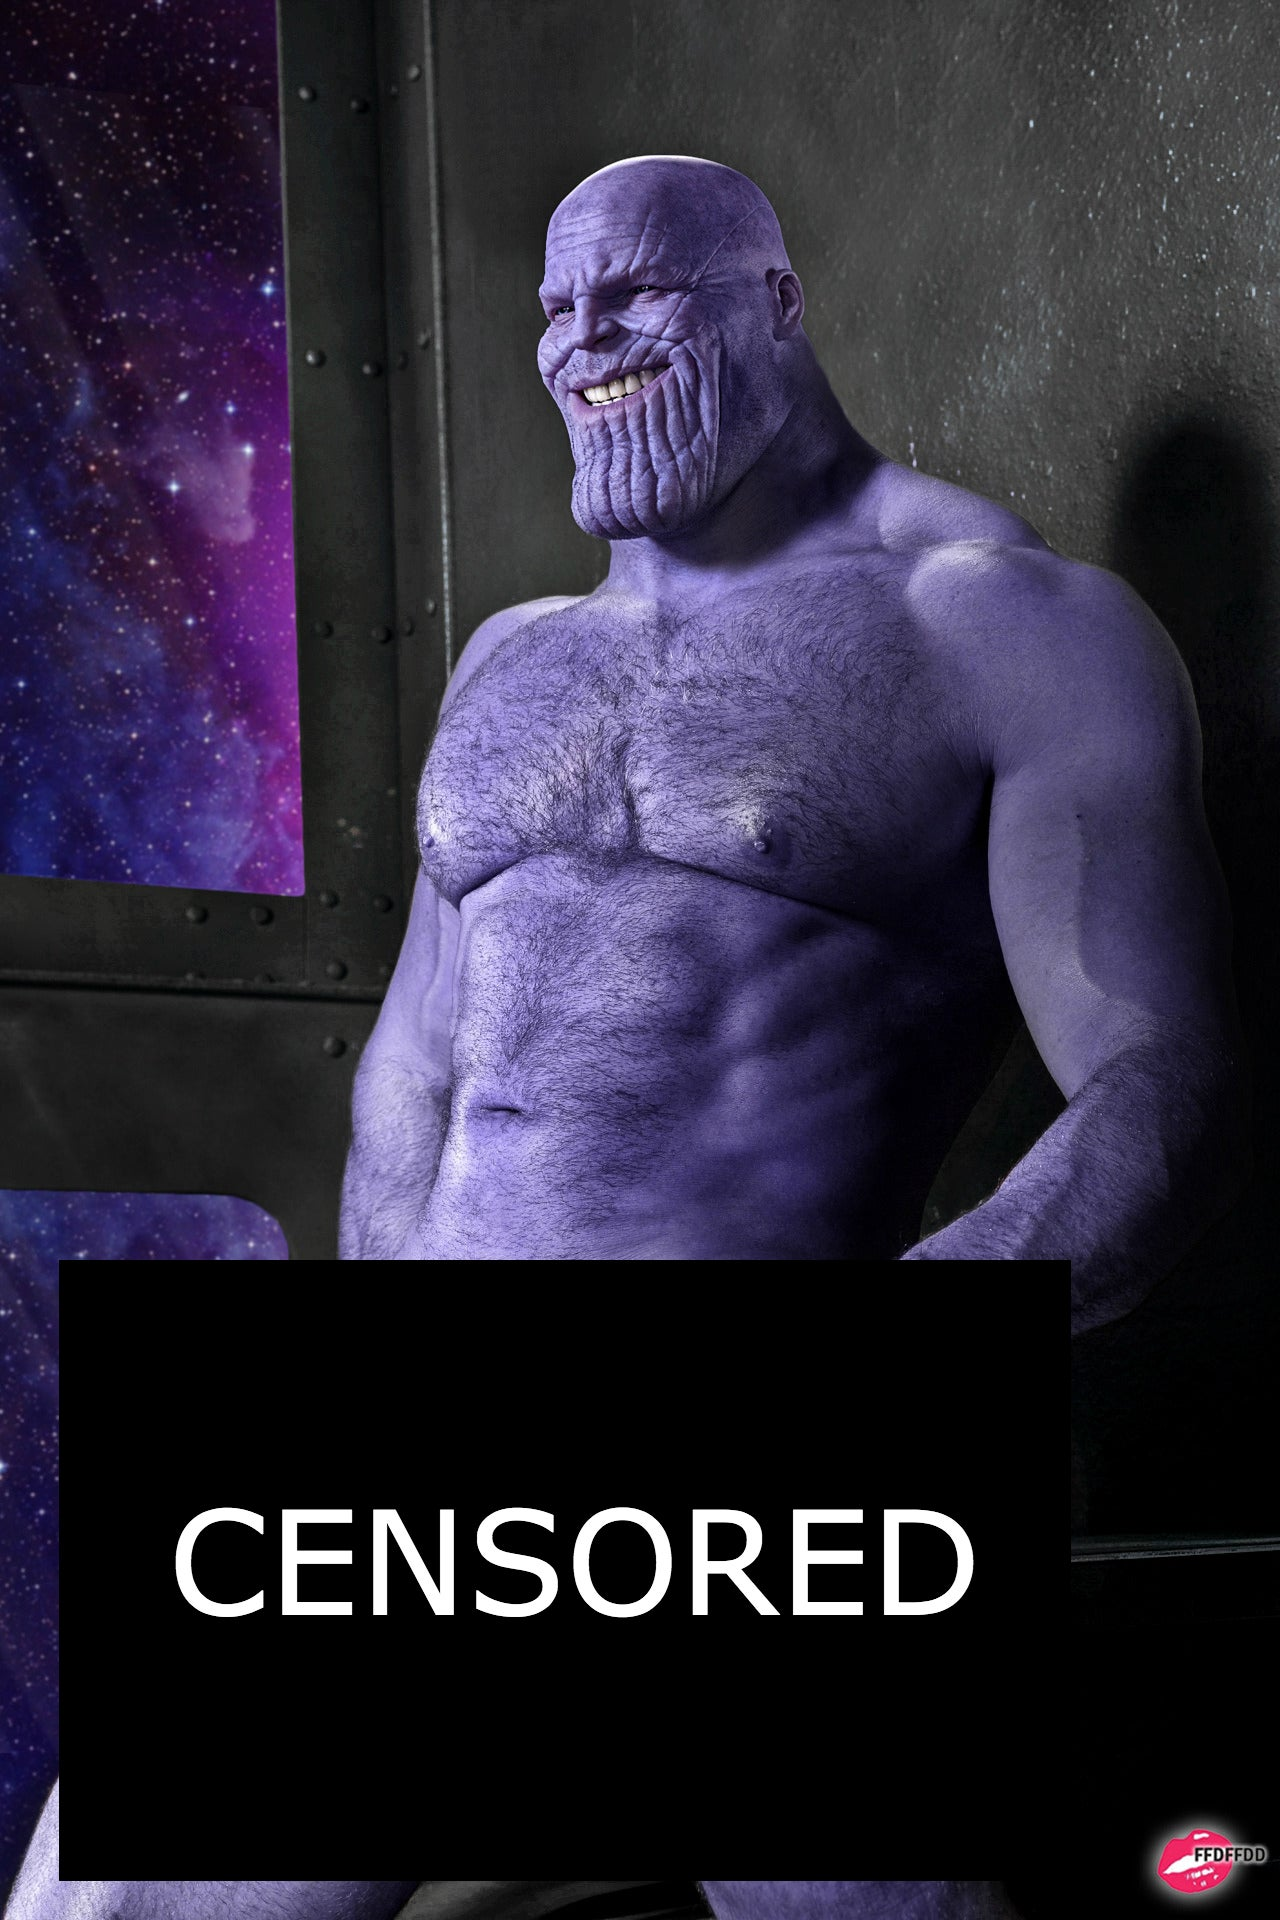
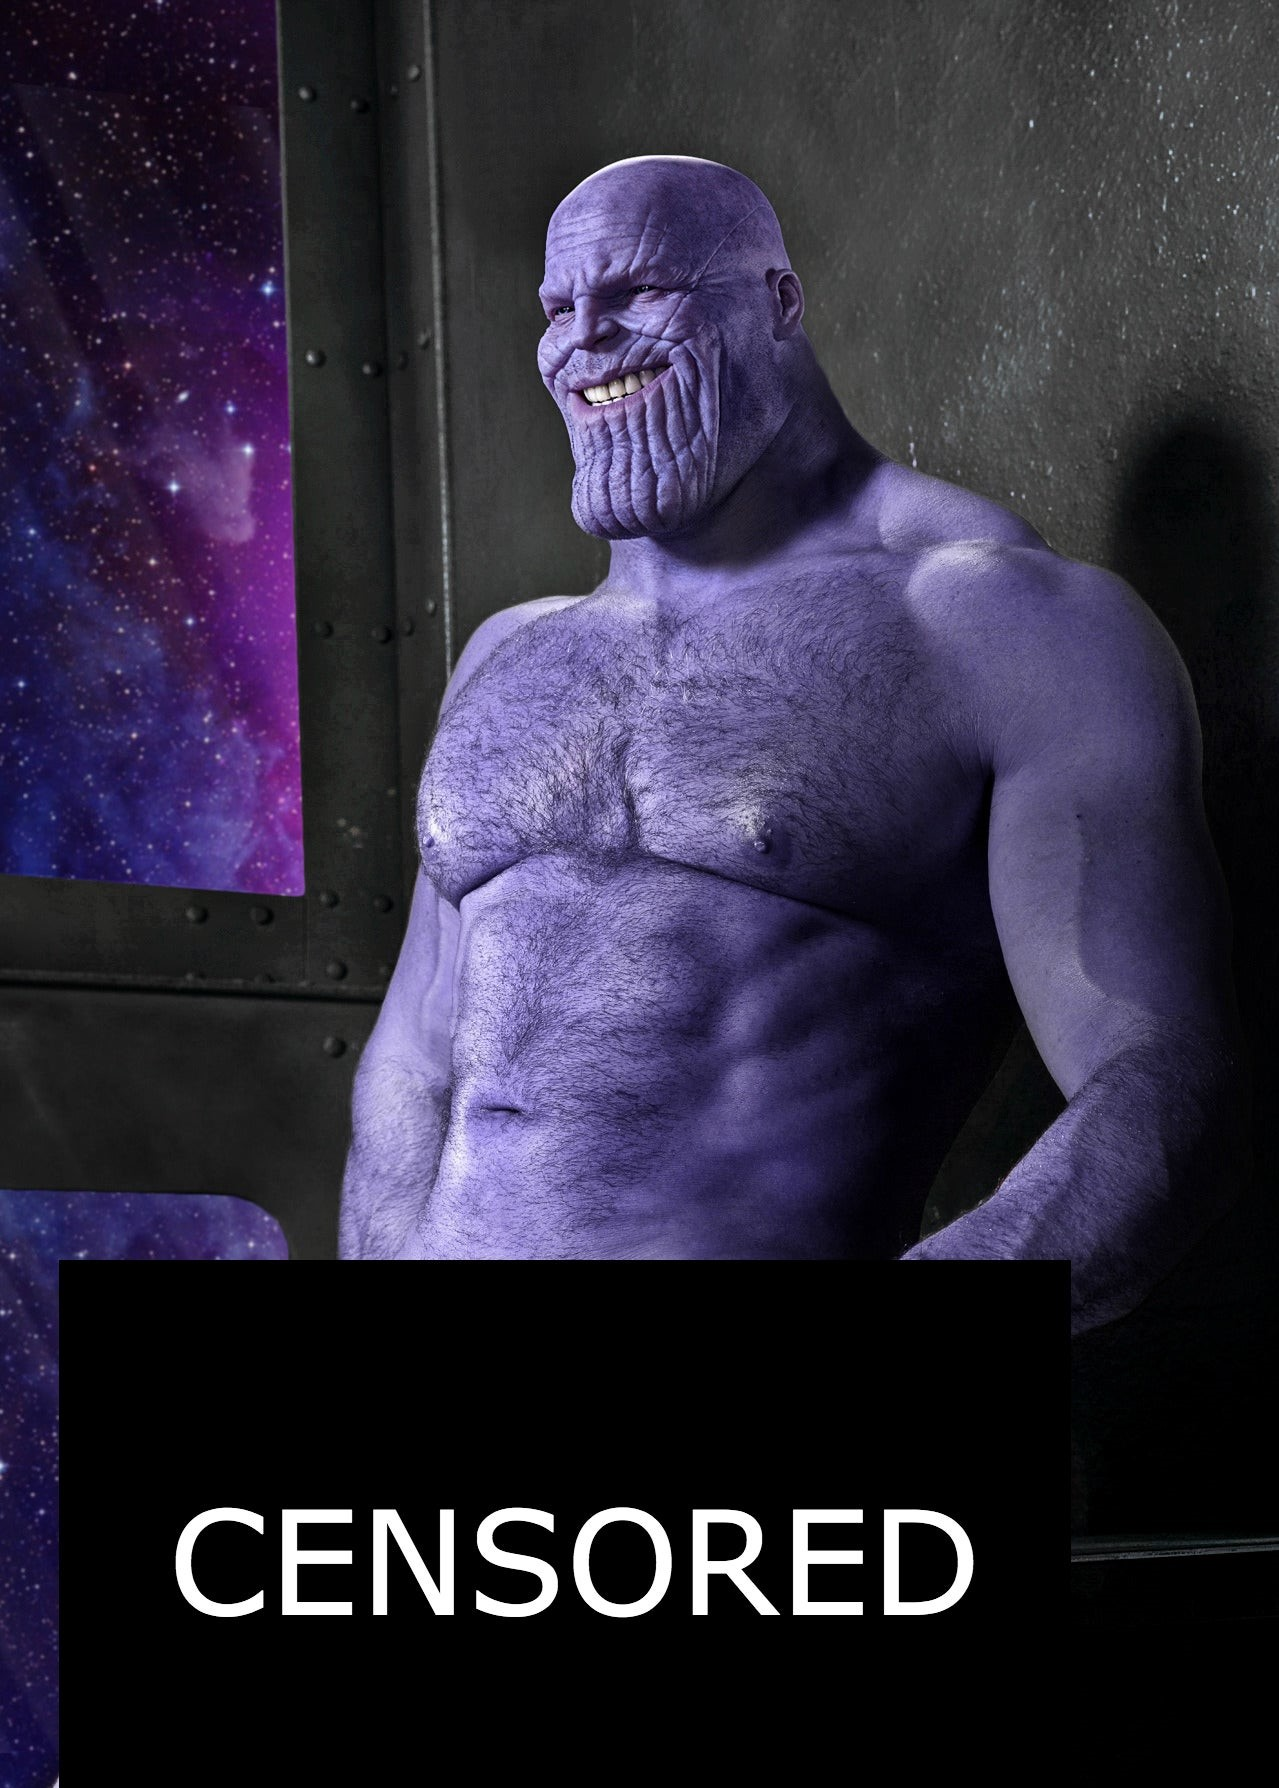
smaller buttons and fixed watermark on thanos

diff --git a/index.html b/index.html
@@ -42,7 +42,7 @@
                     <h3>
                         <a href="clickBait.html">  <!-- thanos button -->
                             <div class="container2">    
-                                <button class="btn-1"> Do Not Click Here </button>
+                                <button class="btn-1"> Thanos was right </button>
                             </div>
                         </a>
                     </h3>
@@ -61,10 +61,18 @@
             </div>
         </div>
     </div>
+
+
+
+
+
+    
+    
+    
+    
     <!-- always stays at the end-->
     <script src="https://unpkg.com/react@17/umd/react.development.js" crossorigin></script>
     <script src="https://unpkg.com/react-dom@17/umd/react-dom.development.js" crossorigin></script>
-
     <!-- Load our React component. -->
     <script src="index.js"></script>
     <script type="module" src="https://unpkg.com/ionicons@5.5.2/dist/ionicons/ionicons.esm.js"></script>

diff --git a/style.css b/style.css
@@ -96,21 +96,21 @@
 }
 
 .btn-1 {
-    width: 300px;
-    height: 100px; 
+    width: 150px;
+    height: 50px; 
     border: none;
     color: white;
     background-color: rgb(221, 80, 80);
-    border-radius: 4px;
+    border-radius: 15px;
     box-shadow: inset 0 0 0 0 rgb(red, green, blue);
     transition: ease-out 0.3s;
-    font-size: 2rem;
+    font-size: 1rem;
     outline: none;
     
 }
 
 .btn-1:hover{
-    box-shadow: inset 300px 0 0 0 #9f15ee;
+    box-shadow: inset 150px 0 0 0 #9f15ee;
     cursor: pointer;
     color: #000;
 }

diff --git a/clickBait.html b/clickBait.html
@@ -8,7 +8,7 @@
     <title>Document</title>
 </head>
 <h1>
-    <p style = "color: black;"> Lol, mad? </p>
+    <p style = "color: black;"> You really agreed? Here's your punishment </p>
 </h1>
 <body>
     <center><img src="thanos.jpg" alt="lol mad?" width = 30% ></center> <!-- thanos button -->
